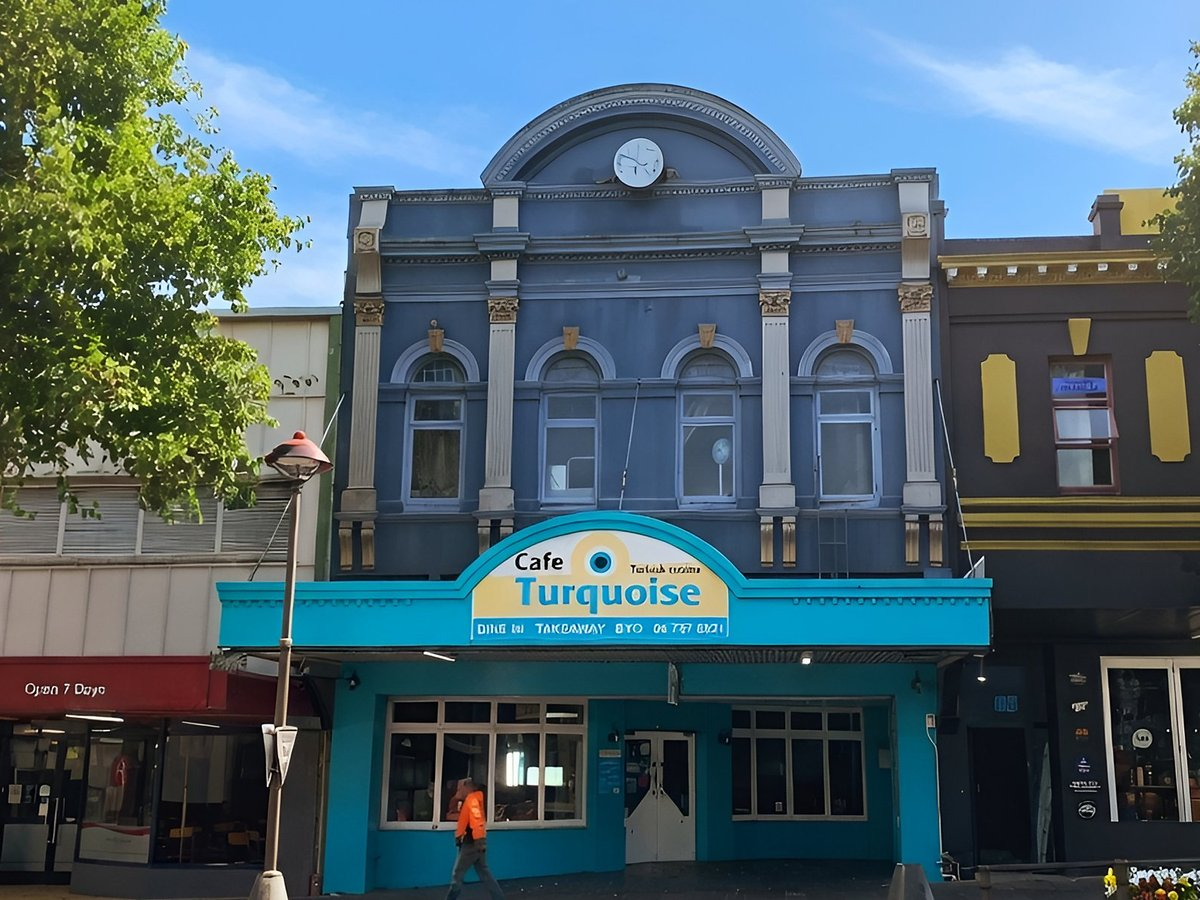
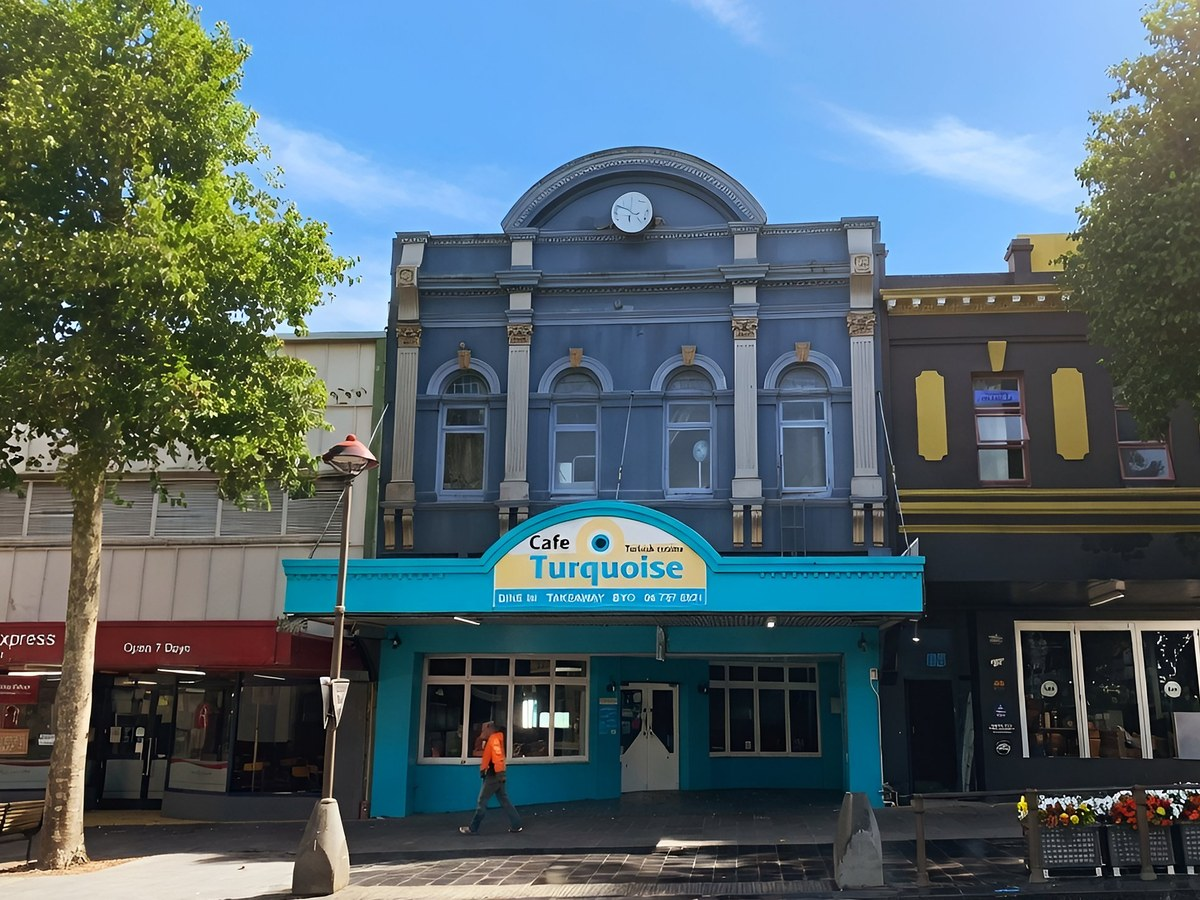
Zoom out phone photo, add card handle

diff --git a/index.html b/index.html
@@ -1105,6 +1105,10 @@
         overflow-y: auto; -webkit-overflow-scrolling: touch; overscroll-behavior-y: none; margin: 0; }
       .s-top { padding-top: 0 !important; }
     }
+    /* Phones: small grab handle on top of the white card (2026-11-12) */
+    @media (max-width: 960px) and (hover: none) {
+      .s-info::before { content: ""; display: block; width: 36px; height: 5px; border-radius: 3px; background: #d1d5d8; margin: -12px auto 14px; flex: none; }
+    }
 </style>
 </head>
 <body id="top">
